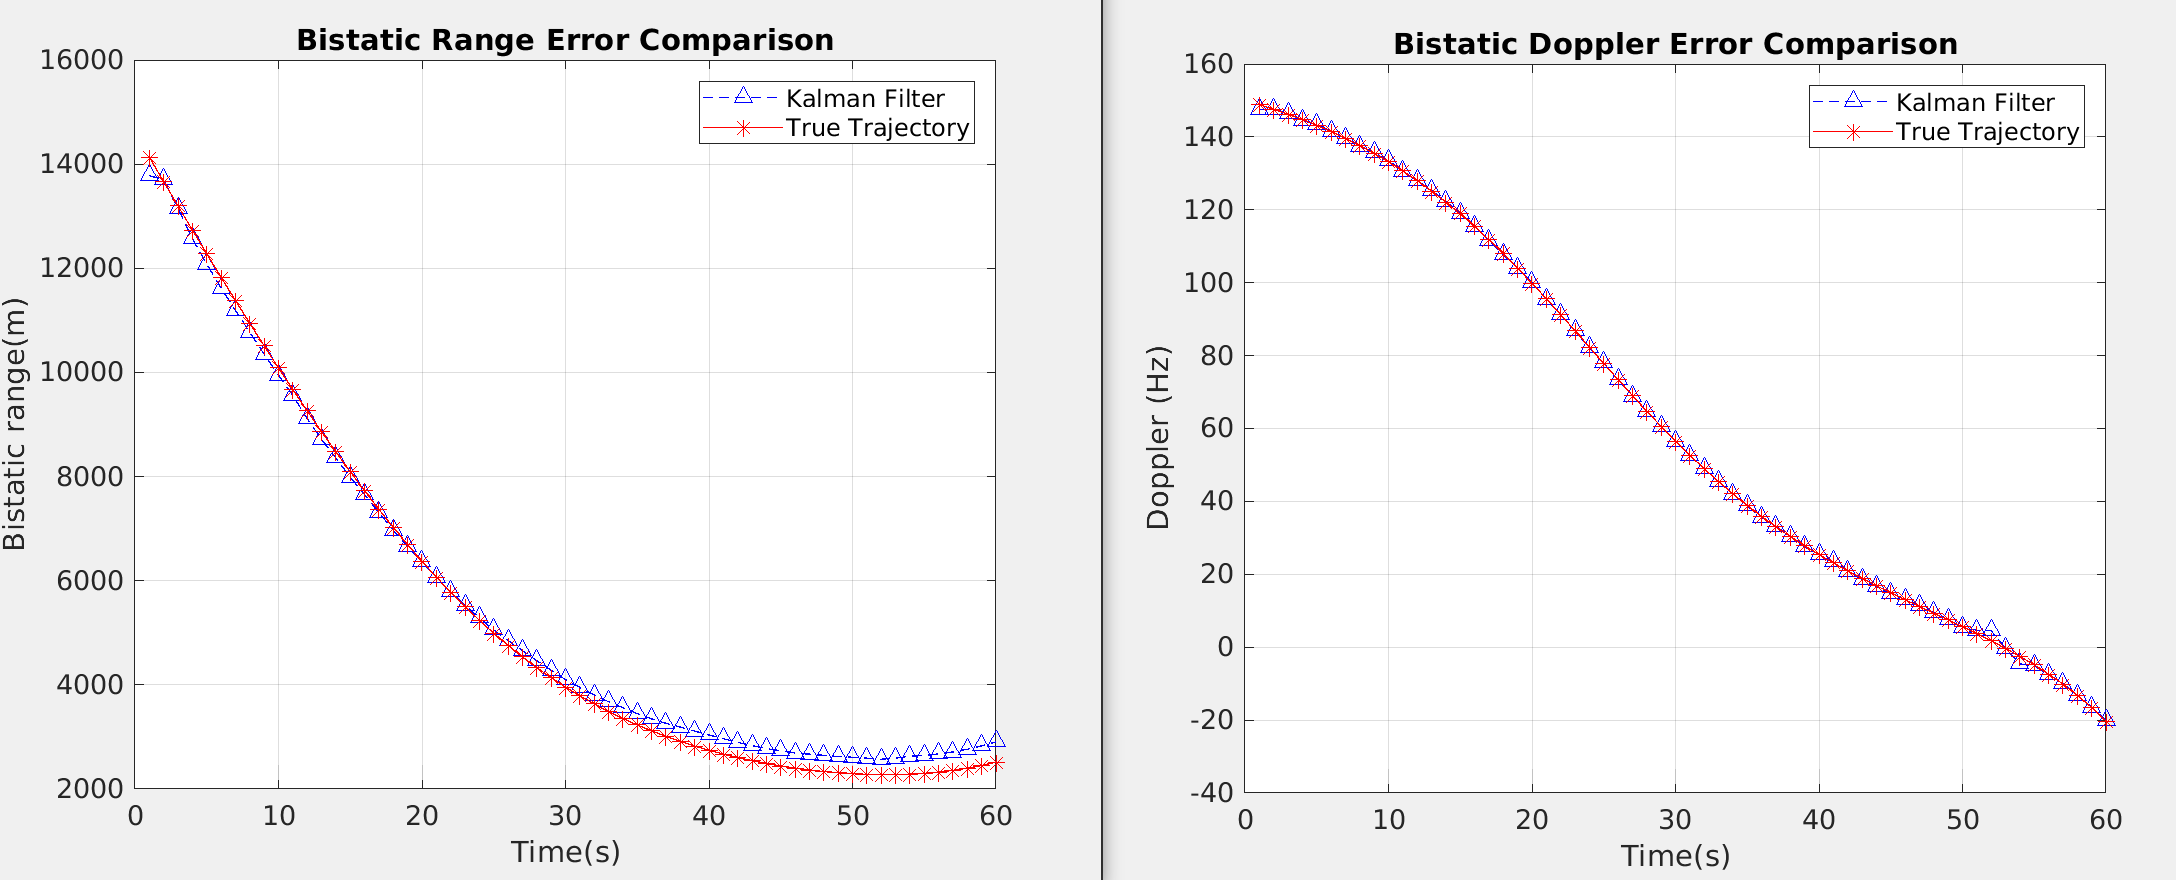
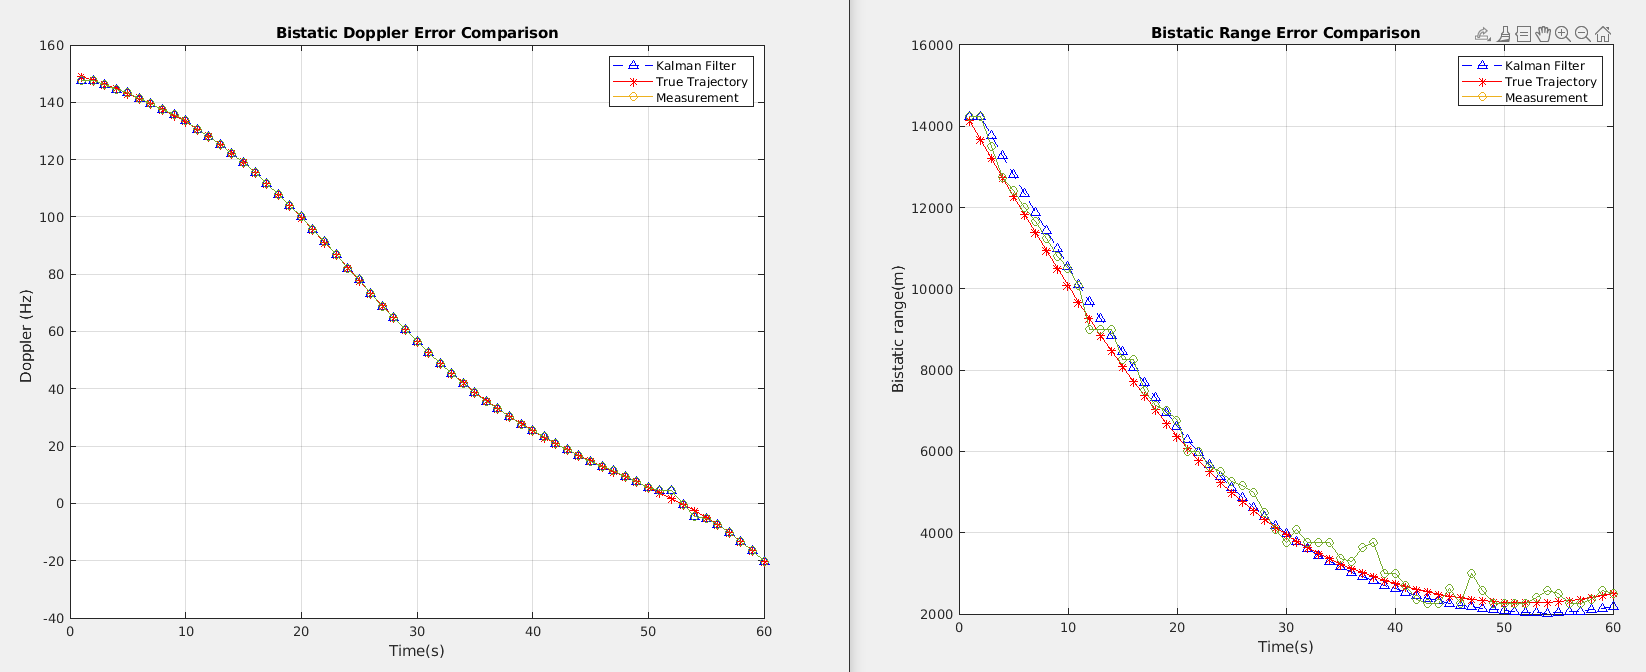
Kalman Filter

diff --git a/multiTargetTracking/multiTargetTracker.m b/multiTargetTracking/multiTargetTracker.m
@@ -104,7 +104,7 @@ classdef multiTargetTracker
             %call tracking filter on all tracks
             disp("Prediction Stage");
             numberOfTracks = max(size(obj.tracks));
-
+            
             for i=1:numberOfTracks
                 obj.tracks(i)=obj.tracks(i).predictTrack();
             end
@@ -152,15 +152,19 @@ classdef multiTargetTracker
                         
                 hold off;
         end
-        function [doppler_error, range_error] =calculateError(obj, i,doppler_error,range_error)
+        function [doppler_error, range_error,doppler_meas,range_meas] =calculateError(obj, i,doppler_error,range_error)
             
             % Calculate the Range and Doppler RMS
             for j = 1:length(obj.tracks)
                 predictedTrack = obj.tracks(j).predictedTrack;
-                
+                trueTrack = obj.tracks(j).trueTrack;
+
                 
                 range_error(j,1:i) = predictedTrack(1, 1:i);
                 doppler_error(j,1:i)= predictedTrack(2, 1:i);
+
+                range_meas(j,1:i) = trueTrack(1, 1:i);
+                doppler_meas(j,1:i)= trueTrack(2, 1:i);
                 
             end
 
@@ -241,6 +245,57 @@ classdef multiTargetTracker
             end
         end
         
+        function [range_ll,doppler_ll] = logLikelihoodMatrix(z,Hx, S )    % Inputs:
+            %   - sample: Array of observed  values from the predicted track.
+            %   - mean: Mean of the distribution under consideration from the true track.
+            %   - R: Covariance value for the parameter (scalar).
+            % 
+            % Output:
+            %   - ll: Log-likelihood for the parameter.
+        
+           
+            % Calculate the log-likelihood for the  parameter
+            
+            % Log-likelihood for a NORMAL distribution is given by:
+            %ll = log(normpdf(sample,mean,S));
+            likelihood = log(mvnpdf(z, Hx, S));
+            disp(likelihood);
+            range_ll =0;
+            doppler_ll =0;
+        
+        end
+
+        function logLikelihood= plotLogLikelihoodMatrix(obj, f, i,logLikelihood,plotResults)
+            
+            if(plotResults)
+                time = 1:1:i;            
+            
+                
+                for j = 1:length(obj.tracks)
+                    predictedTrack = obj.tracks(j).predictedTrack;
+                    trueTrack = obj.tracks(j).trueTrack;
+                    S_matrix = obj.tracks(j).trackingFilterObject.S;
+                    disp(S_matrix);
+
+                    x=[predictedTrack(1,i);predictedTrack(2,i)];
+                    z=[trueTrack(1,i);trueTrack(2,i)];
+                    H= [1,0;0,1;];
+                    Hx = H*x;
+                    
+     
+                   logLikelihood(j,i) = log(mvnpdf(z, Hx, S_matrix));
+    
+                end
+                figure(f);
+                plot(time, logLikelihood);
+                xlabel('Time(s)');
+                ylabel('Log-likelihood');
+                title('Log-likelihood vs Time');
+                %legend('Doppler Log-likelihood', 'Doppler Error'); % Add legend for the two plotted lines
+    
+
+            end
+        end
 
         function [crlb_doppler,crlb_range] = calculateCRLB(obj, f, f1, i,xVar,yVar,N,crlb_doppler,crlb_range)
             time = 1:1:i;

diff --git a/multiTargetTracking/track.m b/multiTargetTracking/track.m
@@ -29,7 +29,7 @@ classdef track
             switch filterType
                 case 1
                     disp("Initializing Kalman Filter");
-                    std_meas=[1,1e-3];                      %Standard Deviation of the measurements in the x and y
+                    std_meas=[50,1e-3];                           %Standard Deviation of the measurements in the x and y
                     std_acc=0.5;                                 %Standard Deviation of the process noise
                     KF_object = kalmanFilter(dt,std_acc,std_meas(1),std_meas(2),[x_initial(1);x_initial(2);]);
                     obj.trackingFilterObject = KF_object;
@@ -79,15 +79,19 @@ classdef track
 
         function obj = predictTrack(obj)
             %Predict using Tracking filter and update predictedTrack
-            [X,obj.trackingFilterObject]= predict(obj.trackingFilterObject);
-            
-            %Update the predicted track
-            obj.predictedTrack(1,end+1)=X(1,1);
-            obj.predictedTrack(2,end)=X(2,1);
+            if(size(obj.predictedTrack)>1)
+                [X,obj.trackingFilterObject]= predict(obj.trackingFilterObject);
+    
+                %Update the predicted track
+                obj.predictedTrack(1,end+1)=X(1,1);
+                obj.predictedTrack(2,end)=X(2,1);
+            else
+                
+                obj.predictedTrack(1,end+1)=obj.trueTrack(1,1);
+                obj.predictedTrack(2,end)=obj.trueTrack(2,1);
+            end
             obj.sampleSinceLastUpdate = obj.sampleSinceLastUpdate+1;
 
-            %disp("Predicted Track");
-            %disp(obj.predictedTrack);
         end
  
         function obj = incrementSampleSinceLastUpdate(obj) %call function to keep track of 

diff --git a/TrackingFilter-KalmanFilter/kalmanFilter.m b/TrackingFilter-KalmanFilter/kalmanFilter.m
@@ -18,9 +18,11 @@ classdef kalmanFilter
                 
             %Update Interval
             obj.dt = dt;
+            c=299792458;
+
 
             %wave number k=-lambda=c/f
-            obj.k_d = -3e8/94e6; 
+            obj.k_d = -c/94e6; 
 
             %State transition matrix
             obj.F = [1, obj.k_d*dt;
@@ -38,8 +40,8 @@ classdef kalmanFilter
             %obj.Q = [(dt^4)/4,(dt^3)/2;
             %        (dt^3)/2,dt^2]*std_acc;
             
-            obj.Q = [obj.k_d^4*(dt^4)/4,-obj.k_d^2*(dt^3)/2;
-                    -obj.k_d^2*(dt^3)/2,dt^2]*std_acc;
+            obj.Q = [obj.k_d^4*(dt^4)/4,obj.k_d^2*(dt^3)/2;
+                    obj.k_d^2*(dt^3)/2,dt^2]*std_acc;
             
             %Standard deviation of measurement in doppler shift and delay
             %Measurement Error covariance matrix
@@ -60,19 +62,20 @@ classdef kalmanFilter
             %x_k = F*x_(k-1)
             obj.X = obj.F*obj.X ;
                        
-            %P= A*P*A' + Q             
-            obj.P = obj.F * obj.P * obj.A.' + obj.Q;
-
             X_pred = obj.X;
             KF_obj1  = obj;
         end
         
         function [X_est,KF_obj2] = update(obj,z)
             %UPDATE STAGE
+            %P= A*P*A' + Q             
+            obj.P = obj.F * obj.P * obj.F.' + obj.Q;
+
+
+
             
             %S = H*P*H'+ R - Total Error - Innovation Covariance Matrix
             obj.S = obj.H * obj.P * obj.H.' + obj.R;
-
             %KALMAN GAIN
             %K = P * H'* inv(H*P*H'+R)
             K = obj.P * obj.H.'*obj.S^(-1);
